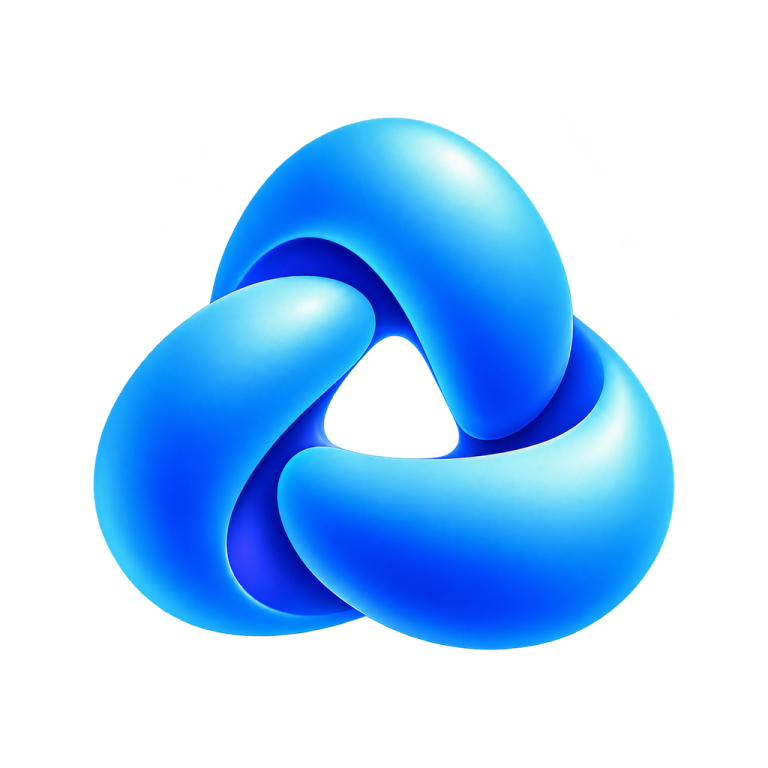
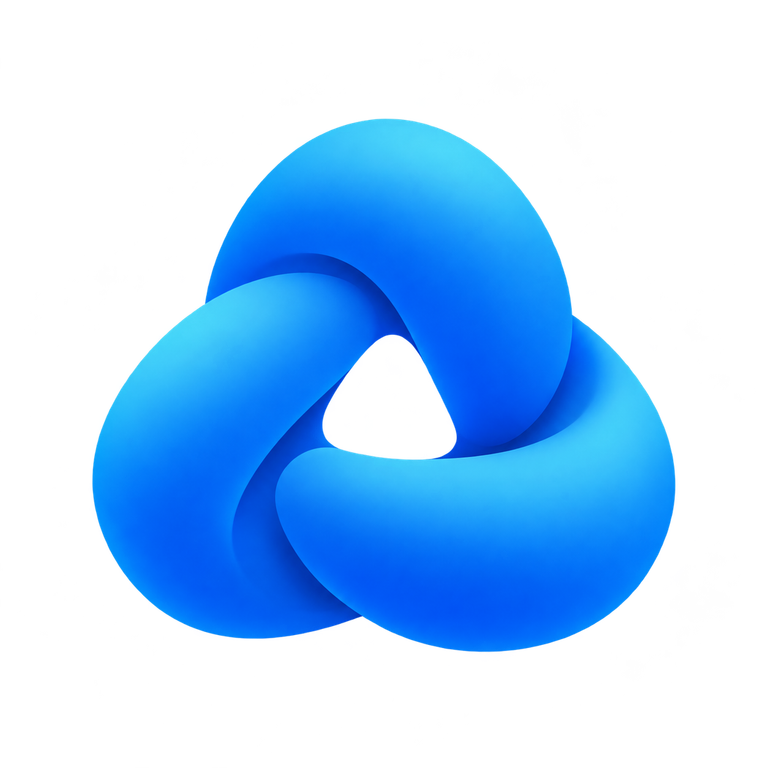
Unify NOXEL product marks with approved Soft Blue family

Changed region(s): [[0.0938, 0.1562, 0.9062, 0.875]]

diff --git a/index.html b/index.html
@@ -130,12 +130,12 @@ document.addEventListener('click',function(e){
  <div class="noxel-intro-heading"><div class="noxel-wordmark"><img src="/brand-20261101/assets/noxel-soft-satin.webp" width="74" height="74" alt=""><strong>NOXEL</strong></div><h2 id="noxel-title">現場のための、<br>もうひとつの道具。</h2></div>
  <div class="noxel-summary"><p>写真を撮る。記録を残す。あとから確かめる。<br>いつもの動きの中で、仕事の記録がつながっていく。<br>現場の仕事を支えるNOXELを、<br>ALDECOが開発・運営しています。</p><a class="text-link" href="https://noxel.pro/" target="_blank" rel="noopener">NOXELの道具を見る <span aria-hidden="true">↗</span></a></div>
  <nav class="noxel-app-world" aria-label="NOXELのアプリ">
-  <a class="app-world-token app-world-photo" href="https://noxel.pro/photobox/" aria-label="PhotoBoxを詳しく"><img src="/brand-20261101/assets/photobox.webp" width="768" height="768" loading="lazy" alt=""><span>PhotoBox <b aria-hidden="true">↗</b></span></a>
-  <a class="app-world-token app-world-link" href="https://noxel.pro/link/" aria-label="LINKを詳しく"><img src="/brand-20261101/assets/link.webp" width="768" height="768" loading="lazy" alt=""><span>LINK <b aria-hidden="true">↗</b></span></a>
-  <a class="app-world-token app-world-base" href="https://noxel.pro/#base" aria-label="Baseを詳しく"><img src="/brand-20261101/assets/base-68c.webp" width="768" height="768" loading="lazy" alt=""><span>Base <b aria-hidden="true">↗</b></span></a>
+  <a class="app-world-token app-world-photo" href="https://noxel.pro/photobox/" aria-label="PhotoBoxを詳しく"><img src="/brand-20261101/assets/photobox.webp?v=20261103-soft-blue" width="768" height="768" loading="lazy" alt=""><span>PhotoBox <b aria-hidden="true">↗</b></span></a>
+  <a class="app-world-token app-world-link" href="https://noxel.pro/link/" aria-label="LINKを詳しく"><img src="/brand-20261101/assets/link.webp?v=20261103-soft-blue" width="768" height="768" loading="lazy" alt=""><span>LINK <b aria-hidden="true">↗</b></span></a>
+  <a class="app-world-token app-world-base" href="https://noxel.pro/#base" aria-label="Baseを詳しく"><img src="/brand-20261101/assets/base-68c.webp?v=20261103-soft-blue" width="768" height="768" loading="lazy" alt=""><span>Base <b aria-hidden="true">↗</b></span></a>
  </nav>
 </div>
-<div class="app-pair"><article class="app-example"><div class="app-text"><div class="app-name"><img src="/brand-20261101/assets/photobox.webp" width="76" height="76" alt=""><span>PhotoBox</span></div><h3><span>撮ったら、もう</span><span>台帳の中。</span></h3><p>写真撮影から台帳づくり、共有まで。</p><a href="https://noxel.pro/photobox/" target="_blank" rel="noopener" class="app-more">PhotoBoxを知る <span aria-hidden="true">↗</span></a></div><button class="app-screen" data-photo="/brand-20261101/assets/photo-capture-20261030.webp" data-caption="PhotoBox — 実際の台帳カメラ画面" aria-label="PhotoBoxの実際のアプリ画面を大きく見る"><img src="/brand-20261101/assets/photo-capture-20261030.webp" width="1206" height="2622" loading="lazy" alt="PhotoBoxの実際のカメラ画面。現場と撮影する枠を選んで写真を撮る"><span>実際のアプリ画面 ↗</span></button></article><article class="app-example"><div class="app-text"><div class="app-name"><img src="/brand-20261101/assets/link.webp" width="76" height="76" alt=""><span>LINK</span></div><h3><span>いつもの移動が、</span><span>今日の記録になる。</span></h3><p>地図と図面でつながる、現場のアプリ。</p><a href="https://noxel.pro/link/" target="_blank" rel="noopener" class="app-more">LINKを知る <span aria-hidden="true">↗</span></a></div><button class="app-screen" data-photo="/brand-20261101/assets/link-today-20261030.webp" data-caption="LINK — 実際の「今日の動き」の画面" aria-label="LINKの実際のアプリ画面を大きく見る"><img src="/brand-20261101/assets/link-today-20261030.webp" width="1206" height="2622" loading="lazy" alt="LINKの実際の今日の動きの画面。地図と移動・現場での記録"><span>実際のアプリ画面 ↗</span></button></article></div>
+<div class="app-pair"><article class="app-example"><div class="app-text"><div class="app-name"><img src="/brand-20261101/assets/photobox.webp?v=20261103-soft-blue" width="76" height="76" alt=""><span>PhotoBox</span></div><h3><span>撮ったら、もう</span><span>台帳の中。</span></h3><p>写真撮影から台帳づくり、共有まで。</p><a href="https://noxel.pro/photobox/" target="_blank" rel="noopener" class="app-more">PhotoBoxを知る <span aria-hidden="true">↗</span></a></div><button class="app-screen" data-photo="/brand-20261101/assets/photo-capture-20261030.webp" data-caption="PhotoBox — 実際の台帳カメラ画面" aria-label="PhotoBoxの実際のアプリ画面を大きく見る"><img src="/brand-20261101/assets/photo-capture-20261030.webp" width="1206" height="2622" loading="lazy" alt="PhotoBoxの実際のカメラ画面。現場と撮影する枠を選んで写真を撮る"><span>実際のアプリ画面 ↗</span></button></article><article class="app-example"><div class="app-text"><div class="app-name"><img src="/brand-20261101/assets/link.webp?v=20261103-soft-blue" width="76" height="76" alt=""><span>LINK</span></div><h3><span>いつもの移動が、</span><span>今日の記録になる。</span></h3><p>地図と図面でつながる、現場のアプリ。</p><a href="https://noxel.pro/link/" target="_blank" rel="noopener" class="app-more">LINKを知る <span aria-hidden="true">↗</span></a></div><button class="app-screen" data-photo="/brand-20261101/assets/link-today-20261030.webp" data-caption="LINK — 実際の「今日の動き」の画面" aria-label="LINKの実際のアプリ画面を大きく見る"><img src="/brand-20261101/assets/link-today-20261030.webp" width="1206" height="2622" loading="lazy" alt="LINKの実際の今日の動きの画面。地図と移動・現場での記録"><span>実際のアプリ画面 ↗</span></button></article></div>
 <section class="drawing-bridge place-history" id="drawing" aria-labelledby="drawing-title">
  <div class="drawing-copy"><p class="eyebrow">PHOTOBOX / DRAWING</p><h3 id="drawing-title">図面の場所と、<br>写真がつながる。</h3><p><span>図面のピンから、その場所の写真へ。</span><span>施工前から今までを、</span><span>写真で確かめられます。</span></p></div>
  <div class="place-demo">
@@ -149,7 +149,7 @@ document.addEventListener('click',function(e){
  <p class="place-history-note">機能紹介用の表示イメージ。図面はサンプル、施工写真は生成画像です。</p>
 </section>
 <p class="availability">iOSから順次展開。LINKはAndroid版も開発中、PhotoBoxも順次対応予定です。</p>
-<div class="noxel-more"><div><img src="/brand-20261101/assets/base-68c.webp" width="100" height="100" loading="lazy" alt=""><div class="base-copy"><span class="base-name">Base</span><h3><span>会社の仕事に、</span><span>確かな土台を。</span></h3><p>会社に集まる記録を、整える。</p></div></div><a href="https://noxel.pro/#base" target="_blank" rel="noopener">Baseを知る <span aria-hidden="true">↗</span></a></div></div></section>
+<div class="noxel-more"><div><img src="/brand-20261101/assets/base-68c.webp?v=20261103-soft-blue" width="100" height="100" loading="lazy" alt=""><div class="base-copy"><span class="base-name">Base</span><h3><span>会社の仕事に、</span><span>確かな土台を。</span></h3><p>会社に集まる記録を、整える。</p></div></div><a href="https://noxel.pro/#base" target="_blank" rel="noopener">Baseを知る <span aria-hidden="true">↗</span></a></div></div></section>
 
 <span id="mission"></span><section class="help-entry wrap" aria-labelledby="help-entry-title"><img src="/brand-20261101/assets/noxel-soft-satin.webp" width="60" height="60" loading="lazy" alt=""><div class="help-entry-copy"><p class="eyebrow">NOXEL / HELP & VOICES</p><h3 id="help-entry-title">使い方も、次のひらめきも。</h3><p>困ったことを探して、見つからなければ声を届ける。</p></div><a href="https://noxel.pro/help/">使い方と、みんなの声 <span aria-hidden="true">→</span></a></section>
 <section class="company wrap" id="company" aria-labelledby="company-title"><div class="company-heading"><p class="eyebrow">04 / COMPANY</p><h2 id="company-title">ALDECOについて</h2><p>岩手県奥州市から。<br>工事と、その仕事を支えるものづくりを。</p><a id="contact" class="contact-link" href="mailto:info@aldeco.co.jp">info@aldeco.co.jp <span aria-hidden="true">↗</span></a></div><dl class="facts"><div><dt>名称</dt><dd>ALDECO（アルデコ）</dd></div><div><dt>所在地</dt><dd>岩手県奥州市水沢真城東五郎兵衛2</dd></div><div><dt>代表</dt><dd>佐藤 将希</dd></div><div><dt>事業</dt><dd>外構・造成工事<br>施工道具の開発<br>建設現場向けアプリ NOXEL の開発・運営</dd></div><div><dt>運営法人</dt><dd>合同会社エム・クラフト<small>2026年11月20日に株式会社アルデコへ商号変更予定</small></dd></div></dl></section>
